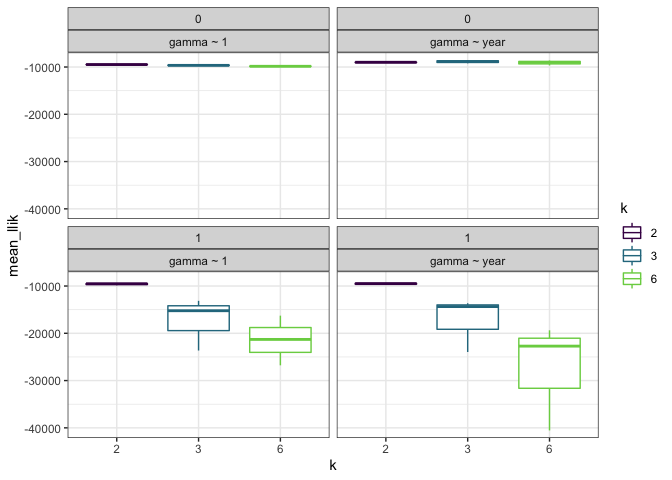
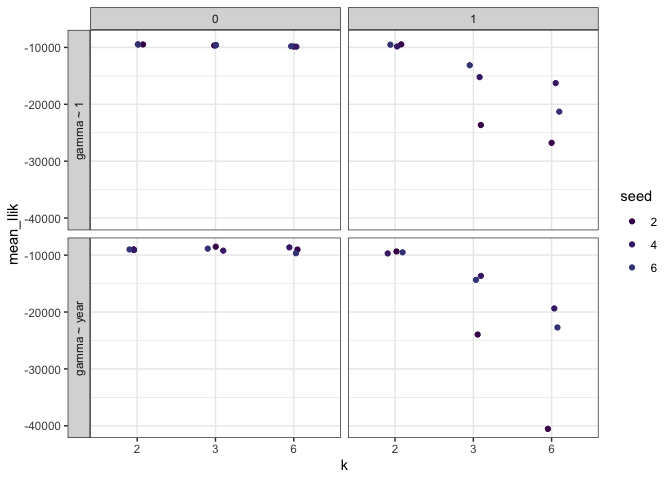
obs pred plot and pred function

diff --git a/analysis/report.md b/analysis/report.md
@@ -1,41 +1,53 @@
 Composite LL
 ================
 
-``` r
-loadd(composite_ll, cache = cache)
-```
+Calculating composite loglikelihood for all model specifications using leave-one-out cross validation.
 
-``` r
-composite_ll <- composite_ll %>%
-  mutate(k = as.factor(k),
-         ncpt = as.factor(ncpt),
-         seed = as.factor(seed))
+Per model specification (number of changepoints, number of topics, LDA seed, covariates), fit one model to one dataset for every year of data. Every dataset has a focal year, plus a 2 year buffer on either side, witheld for model fitting. Then we calculate estimates of the likelihood of that focal year of data given the model, using estimates of the model parameters. We assemble a full timeseries likelihood by adding together loglikelihoods for every year, scrambling the (probably arbitrary) iterations that get combined. This gives us an estimated loglikelihood measuring performance of the model specification across all the years of data.
 
-all_var <- ggplot(data = composite_ll, aes(x = seed, y = sum_ll, color = k, group = seed)) +
-  geom_violin() +
-  geom_point() +
-  facet_wrap(facets = c("ncpt", "form", "k"), ncol = 3) +
-  theme_bw() +
-  scale_color_viridis_d(end = .8)
+I tried using likelihood (not log), but the numbers were too small for R.
 
-all_var
-```
+I had some internal debate over whether to keep LDA seeds fixed or try to incorporate variation between LDA models of the same k but different seed. I decided not to go there, because it seemed mathematically dubious and also like an organizational nightmare.
+
+Model specifications
+--------------------
+
+-   3 seeds
+-   0 or 1 changepoint
+    -   I am currently running a set with 2 changepoints.
+-   2, 3, or 6 topics
+-   ~1 or ~year
+-   1000 iterations
+
+Loglikelihood for all models
+----------------------------
+
+The y-axis is loglikelihood across all years. The x axis is the number of topics. The very short color scale is the seed (included to split the box plots). The facet columns are number of changepoints and the rows are formula (top is ~1, bottom is ~time). Variation represents variation in estimates of the likelihood from different parameter estimates (1000 draws).
 
 ![](report_files/figure-markdown_github/plots-1.png)
 
-``` r
-smooth_draws <- composite_ll %>%
-  group_by(k, seed, form, ncpt) %>%
-  summarize(mean_llik = mean(sum_ll)) %>%
-  ungroup() 
+### Mean loglikelihood
 
-sd_plot <- ggplot(data = smooth_draws, aes(x = k, y = mean_llik, color = k, group = k)) +
-  geom_boxplot() +
-  facet_wrap(facets = c("ncpt", "form")) +
-  theme_bw() +
-  scale_color_viridis_d(end = .8)
-
-sd_plot
-```
+This is the same plot as above, but only plotting the mean loglikelihood across all estimates for each model specification.
 
 ![](report_files/figure-markdown_github/summarize-1.png)
+
+Best models
+-----------
+
+This is the same plot as above, but filtered to the top 10 models based on *mean* loglikelihood. The 9 runners-up are semitransparent, and the top ranked one is shaded all the way in.
+
+There's more inter-seed than inter-model variation, so don't interpret this result too strongly. But based on this extremely small run, the best model would be 3 topics, 0 changepoints, and ~1.
+
+![](report_files/figure-markdown_github/best%20ll-1.png)
+
+One fit of this model looks like this:
+
+![](report_files/figure-markdown_github/plot%20best-1.png)![](report_files/figure-markdown_github/plot%20best-2.png)
+
+Predictions from "best" models
+------------------------------
+
+Here are observed-predicted time series plots for the best model. The green boxplots are predictions at each time step, and the purple lines are the observed abundances. (All relative). The facets are species. The variation in the boxplots is different draws.
+
+![](report_files/figure-markdown_github/get%20predictions-1.png)
